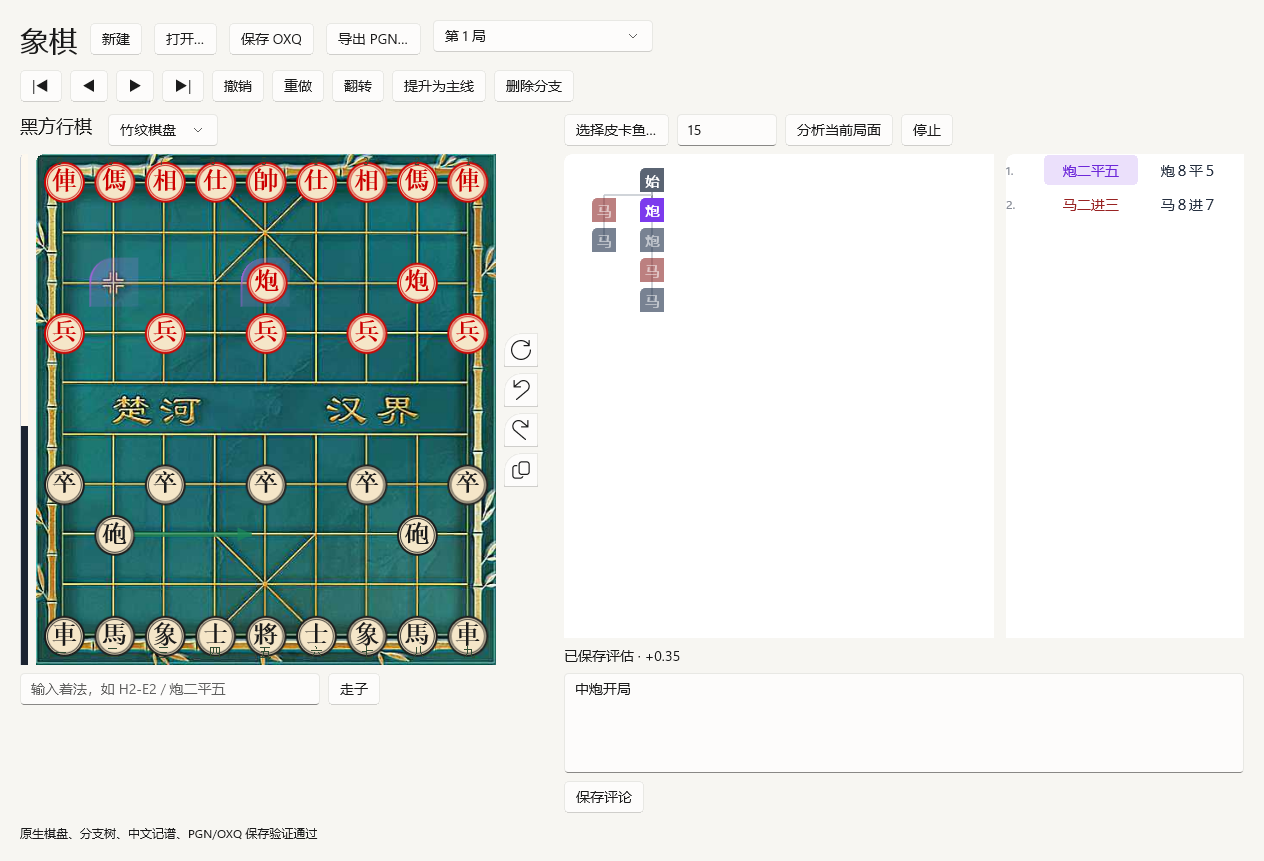
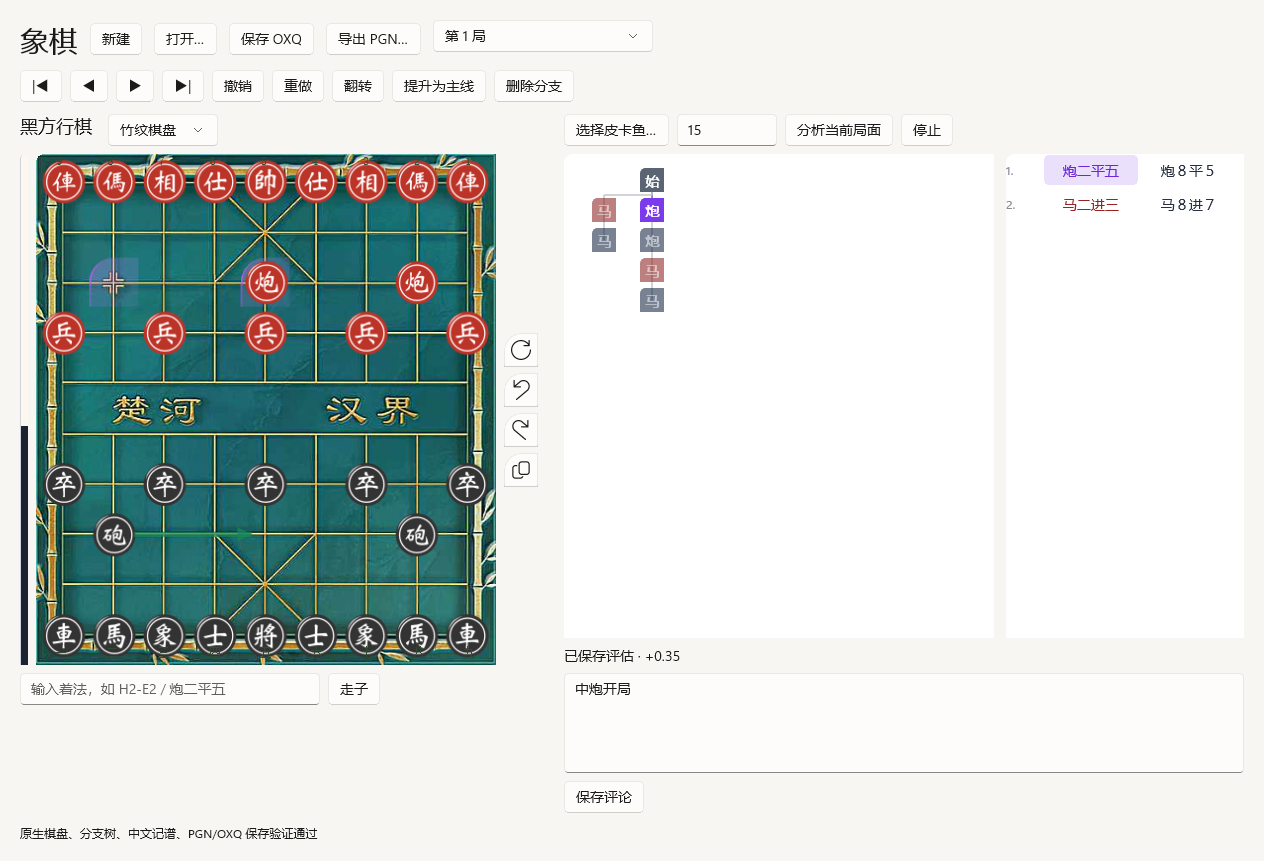
Use OXDF SVG pieces and replace wood board with a flat theme

diff --git a/app/main.cpp b/app/main.cpp
@@ -27,7 +27,6 @@
 #include <winrt/Microsoft.UI.Xaml.h>
 #include <winrt/Microsoft.UI.h>
 #include <winrt/Windows.ApplicationModel.DataTransfer.h>
-#include <winrt/Windows.Data.Xml.Dom.h>
 #include <winrt/Windows.Foundation.Collections.h>
 #include <winrt/Windows.Graphics.Imaging.h>
 #include <winrt/Windows.Graphics.h>
@@ -86,82 +85,50 @@ std::wstring piece_name(char c) {
         return L"";
     }
 }
-// The original traditional SVG assets are interpreted as native WinUI shapes.
-struct PieceCircle {
-    double diameter, thickness;
-    std::string fill, stroke;
-};
-struct PieceArt {
-    std::vector<PieceCircle> circles;
-    hstring text;
-    double size{};
-    std::string color;
-};
-std::unordered_map<char, PieceArt> pieceArt;
+// User-provided OXDF-editor SVGs contain path glyphs, not font-dependent text.
+using Microsoft::UI::Xaml::Media::Imaging::SvgImageSource;
+std::unordered_map<char, SvgImageSource> pieceArt;
+std::unordered_set<char> loadedPieceArt, failedPieceArt;
 std::filesystem::path asset_root() {
     wchar_t module[MAX_PATH]{};
     GetModuleFileNameW(nullptr, module, MAX_PATH);
     return std::filesystem::path(module).parent_path() / L"assets";
 }
-SolidColorBrush hex_brush(const std::string &color) {
-    if (color == "none")
-        return SolidColorBrush(Color{0, 0, 0, 0});
-    auto n = std::stoul(color.substr(1), nullptr, 16);
-    return brush((n >> 16) & 255, (n >> 8) & 255, n & 255);
-}
 void load_piece_art() {
     const std::map<char, std::wstring> files = {
-        {'K', L"wking"},   {'k', L"bking"},   {'A', L"wadvisor"}, {'a', L"badvisor"}, {'B', L"wbishop"},
-        {'b', L"bbishop"}, {'N', L"wknight"}, {'n', L"bknight"},  {'R', L"wrook"},    {'r', L"brook"},
-        {'C', L"wcannon"}, {'c', L"bcannon"}, {'P', L"wpawn"},    {'p', L"bpawn"}};
+        {'K', L"red_king"},     {'k', L"black_king"},     {'A', L"red_advisor"}, {'a', L"black_advisor"},
+        {'B', L"red_elephant"}, {'b', L"black_elephant"}, {'N', L"red_horse"},   {'n', L"black_horse"},
+        {'R', L"red_rook"},     {'r', L"black_rook"},     {'C', L"red_cannon"},  {'c', L"black_cannon"},
+        {'P', L"red_pawn"},     {'p', L"black_pawn"}};
     for (auto &[piece, name] : files) {
-        std::ifstream input(asset_root() / L"pieces" / L"traditional" / (name + L".svg"), std::ios::binary);
-        if (!input)
-            throw std::runtime_error("Missing original piece resource");
-        std::string source((std::istreambuf_iterator<char>(input)), {});
-        Windows::Data::Xml::Dom::XmlDocument xml;
-        xml.LoadXml(to_hstring(source));
-        PieceArt art;
-        for (auto node : xml.GetElementsByTagName(L"circle")) {
-            auto element = node.as<Windows::Data::Xml::Dom::XmlElement>();
-            art.circles.push_back({2 * std::stod(to_string(element.GetAttribute(L"r"))),
-                                   std::stod(to_string(element.GetAttribute(L"stroke-width"))),
-                                   to_string(element.GetAttribute(L"fill")),
-                                   to_string(element.GetAttribute(L"stroke"))});
-        }
-        auto text = xml.GetElementsByTagName(L"text").Item(0).as<Windows::Data::Xml::Dom::XmlElement>();
-        art.text = text.InnerText();
-        art.size = std::stod(to_string(text.GetAttribute(L"font-size")));
-        art.color = to_string(text.GetAttribute(L"fill"));
-        pieceArt.emplace(piece, std::move(art));
+        if (!std::filesystem::exists(asset_root() / L"pieces" / (name + L".svg")))
+            throw std::runtime_error("Missing OXDF-editor piece resource");
+        SvgImageSource source;
+        source.Opened([piece](auto &&, auto &&) { loadedPieceArt.insert(piece); });
+        source.OpenFailed([piece](auto &&, auto &&) { failedPieceArt.insert(piece); });
+        source.UriSource(Windows::Foundation::Uri(L"ms-appx:///assets/pieces/" + name + L".svg"));
+        pieceArt.emplace(piece, source);
     }
 }
-Grid piece_visual(char c) {
-    auto &art = pieceArt.at(c);
-    Grid image;
-    image.Width(45);
-    image.Height(45);
-    image.IsHitTestVisible(false);
-    for (auto &circle : art.circles) {
-        Microsoft::UI::Xaml::Shapes::Ellipse e;
-        e.Width(circle.diameter);
-        e.Height(circle.diameter);
-        e.Fill(hex_brush(circle.fill));
-        e.Stroke(hex_brush(circle.stroke));
-        e.StrokeThickness(circle.thickness);
-        image.Children().Append(e);
-    }
-    TextBlock text;
-    text.Text(art.text);
-    text.FontFamily(FontFamily(L"SimSun"));
-    text.FontSize(art.size);
-    text.FontWeight(Windows::UI::Text::FontWeights::Bold());
-    text.Foreground(hex_brush(art.color));
-    text.HorizontalAlignment(HorizontalAlignment::Center);
-    text.VerticalAlignment(VerticalAlignment::Center);
-    text.Margin(Thickness{0, -2, 0, 0});
-    image.Children().Append(text);
-    return image;
+Canvas piece_visual(char c) {
+    // Original 96x96 SVGs have a 58px disc centred at 48,48.
+    // Crop only the transparent margin so the unchanged artwork fills a board piece.
+    Canvas frame;
+    frame.Width(45);
+    frame.Height(45);
+    frame.IsHitTestVisible(false);
+    RectangleGeometry clip;
+    clip.Rect(Windows::Foundation::Rect{0, 0, 45, 45});
+    frame.Clip(clip);
+    Image image;
+    constexpr double size = 45.0 * 96.0 / 62.0;
+    image.Width(size);
+    image.Height(size);
+    image.Source(pieceArt.at(c));
+    Canvas::SetLeft(image, (45 - size) / 2);
+    Canvas::SetTop(image, (45 - size) / 2);
+    frame.Children().Append(image);
+    return frame;
 }
 
 std::filesystem::path picker(HWND owner, bool save, const wchar_t *pattern, const wchar_t *extension) {
@@ -244,7 +211,7 @@ struct Workspace : std::enable_shared_from_this<Workspace> {
         t.Text(text);
         t.IsHitTestVisible(false);
         t.FontSize(size);
-        t.Foreground(bamboo ? brush(48, 76, 50) : brush(246, 234, 212));
+        t.Foreground(bamboo ? brush(48, 76, 50) : brush(99, 110, 125));
         t.FontFamily(FontFamily(L"SimSun"));
         Canvas::SetLeft(t, x);
         Canvas::SetTop(t, y);
@@ -404,7 +371,7 @@ struct Workspace : std::enable_shared_from_this<Workspace> {
         boardHeader.Children().Append(turn);
         auto texture = boardTexture;
         texture.MinWidth(110);
-        texture.Items().Append(box_value(L"木纹棋盘"));
+        texture.Items().Append(box_value(L"纯色棋盘"));
         texture.Items().Append(box_value(L"竹纹棋盘"));
         texture.SelectedIndex(0);
         texture.SelectionChanged([this](auto &&sender, auto &&) {
@@ -415,11 +382,7 @@ struct Workspace : std::enable_shared_from_this<Workspace> {
         leftPanel.Children().Append(boardHeader);
         board.Width(450);
         board.Height(500);
-        ImageBrush wood;
-        wood.ImageSource(Microsoft::UI::Xaml::Media::Imaging::BitmapImage(
-            Windows::Foundation::Uri(L"ms-appx:///assets/wood.jpg")));
-        wood.Stretch(Stretch::UniformToFill);
-        board.Background(wood);
+        board.Background(brush(245, 246, 248));
         Viewbox view;
         view.Stretch(Stretch::Uniform);
         view.Child(board);
@@ -787,11 +750,14 @@ struct Workspace : std::enable_shared_from_this<Workspace> {
     void draw_board() {
         board.Children().Clear();
         auto pos = doc().position();
-        ImageBrush texture;
-        texture.ImageSource(Microsoft::UI::Xaml::Media::Imaging::BitmapImage(Windows::Foundation::Uri(
-            bamboo ? L"ms-appx:///assets/bamboo.jpg" : L"ms-appx:///assets/wood.jpg")));
-        texture.Stretch(Stretch::Fill);
-        board.Background(texture);
+        if (bamboo) {
+            ImageBrush texture;
+            texture.ImageSource(Microsoft::UI::Xaml::Media::Imaging::BitmapImage(
+                Windows::Foundation::Uri(L"ms-appx:///assets/bamboo.jpg")));
+            texture.Stretch(Stretch::Fill);
+            board.Background(texture);
+        } else
+            board.Background(brush(245, 246, 248));
         if (!bamboo) {
             Image grid;
             grid.Width(450);
@@ -860,7 +826,7 @@ struct Workspace : std::enable_shared_from_this<Workspace> {
                 b.Content(dot);
             }
             Automation::AutomationProperties::SetName(
-                b, (squares[s] ? pieceArt.at(squares[s]).text : hstring(L"空位")) + L" " +
+                b, (squares[s] ? hstring(piece_name(squares[s])) : hstring(L"空位")) + L" " +
                        to_hstring(xqn_square(s)));
             Canvas::SetLeft(b, p.first - 24);
             Canvas::SetTop(b, p.second - 24);
@@ -1153,6 +1119,8 @@ struct Workspace : std::enable_shared_from_this<Workspace> {
             co_await winrt::resume_after(std::chrono::milliseconds(400));
             // Return to the window thread before accessing any controls.
             co_await ui;
+            if (!failedPieceArt.empty() || loadedPieceArt.size() != 14)
+                throw std::runtime_error("OXDF SVG resources failed to decode");
             co_await capture_preview(directory / L"native-preview.png");
             boardTexture.SelectedIndex(1);
             if (!bamboo)
@@ -1174,7 +1142,7 @@ struct Workspace : std::enable_shared_from_this<Workspace> {
                                              {"gameNodes", doc().model().move_tree.nodes.size()},
                                              {"preview", "native-preview.png"},
                                              {"boardClick", true},
-                                             {"pieceResources", pieceArt.size()},
+                                             {"pieceResources", loadedPieceArt.size()},
                                              {"textures", 2}}
                                        .dump(2)));
         } catch (const hresult_error &e) {

diff --git a/docs/PROGRESS.md b/docs/PROGRESS.md
@@ -7,7 +7,7 @@ Date: 2026-10-23. The current checkpoint implements the user's C++-only requirem
 - Independent Git repository and WinUI 3/C++20 application.
 - Native C++ rules/FEN, Chinese/WXF/ICCS notation, PGN/comment metadata and Walker layout.
 - QuickJS, JS/TS sources, generated bundles, npm manifests and Node CI steps removed.
-- Original wood/bamboo textures, 14 traditional piece SVG definitions and board paths.
+- Flat native board by default, optional bamboo board, and 14 unchanged OXDF-editor SVG pieces. Wood and old traditional piece assets are removed.
 - Native vector pieces, board click-to-move/flip, legal dots, last-move highlights, annotations and best-move arrows.
 - WinUI native texture selector, side toolbar, FEN copy, evaluation strip, compact branch graph and two-column Chinese move list.
 - Multiple games; navigation, branch deletion/promotion, comments, undo/redo.
@@ -31,7 +31,11 @@ The native CTest targets cover:
 
 The previous JS prototype passed the original 41 TS tests. Those historical results do not claim that all 41 utility behaviors have already been reimplemented in native UI: player-clock presentation and annotation toggle controls remain below. Active verification now runs entirely in C++.
 
-Release and Debug builds each passed all four CTest targets and actual WinUI smoke tests. Native board source/destination clicks, both textures, flip and OXQ save/reopen passed. All 16 copied original image/SVG assets retain their source hashes. Real Pikafish returned depth 6, bestmove h2e2, ponder h9g7 and +0.52-pawn score (52 centipawns). Evidence and previews are under build/ during development. Run scripts/build.ps1 and scripts/smoke.ps1 to reproduce. Committed previews show the actual WinUI visual tree.
+Release and Debug builds each passed all four CTest targets and actual WinUI smoke tests. Native board source/destination clicks, both board styles, flip and OXQ save/reopen passed. Current OXDF-editor piece assets are verified byte-for-byte against the user-selected source directory. Real Pikafish returned depth 6, bestmove h2e2, ponder h9g7 and +0.52-pawn score (52 centipawns). Evidence and previews are under build/ during development. Run scripts/build.ps1 and scripts/smoke.ps1 to reproduce. Committed previews show the actual WinUI visual tree.
+
+## Latest visual update
+
+The user requested removal of wood artwork and selected OXDF-editor/assets/pieces. All 14 SVGs now load directly through WinUI; their source hashes match. The default board is flat, with bamboo retained as an option. Release and Debug UI builds and smoke tests passed with all 14 SVG decode events confirmed; the four native CTest targets also passed in Release. The review executable is build/winui/Release-oxdf/XiangqiNative.exe because the existing Release exe was running. Build/smoke scripts now accept an independent OutputDirectory.
 
 ## Next work
 
@@ -45,4 +49,4 @@ Release and Debug builds each passed all four CTest targets and actual WinUI smo
 
 ## Current limits
 
-Full-tree projections run synchronously and undo copies models; large-tree performance is unverified. PGN export is per active game. CBL diagnostics reject input pending a review UI. Theme selection is currently session-only. Only original traditional pieces are implemented. Competition repetition/chase adjudication is outside the inherited rule implementation.
+Full-tree projections run synchronously and undo copies models; large-tree performance is unverified. PGN export is per active game. CBL diagnostics reject input pending a review UI. Theme selection is currently session-only. The current piece set uses the user-selected OXDF-editor SVGs. Competition repetition/chase adjudication is outside the inherited rule implementation.

diff --git a/README.md b/README.md
@@ -8,9 +8,9 @@
 
 ## 运行
 
-本机可运行程序：`build/winui/Release/XiangqiNative.exe`。复制应用时保留整个 Release 目录，Windows App SDK 运行库和素材随目录部署。当前验证平台为 Windows 11 x64。
+本次界面更新构建：`build/winui/Release-oxdf/XiangqiNative.exe`。标准构建默认输出到 `build/winui/Release/`；旧程序占用 exe 时可使用独立输出目录。复制应用时保留 exe 所在的完整目录，Windows App SDK 运行库和素材随目录部署。当前验证平台为 Windows 11 x64。
 
-- 原木纹、竹纹棋盘和传统棋子资源；WinUI 原生按钮、菜单式选择器、文件对话框和文本框。
+- 默认纯色棋盘、可选竹纹棋盘，以及 OXDF-editor 的矢量棋子资源；WinUI 原生按钮、菜单式选择器、文件对话框和文本框。
 - 点击棋子与落点走子；支持棋盘翻转、合法落点、上一着高亮和 FEN 复制。
 - 紧凑分支树与双列中文着法，节点点击跳转、提升主线、删除分支、撤销/重做。
 - 中文、WXF、ICCS 输入；PGN 多局导入、评语与分析信息保留；单局 OXQ 保存及 PGN 导出。
@@ -34,7 +34,15 @@
 ./scripts/build.ps1 -Configuration Debug -CoreOnly
 ```
 
-构建会运行 C++ 文档、引擎和旧实现对照测试。自测会启动实际 WinUI 应用，验证按钮走子、OXQ 保存往返、木纹/竹纹切换及翻转渲染，输出位于 `build/winui/Release/smoke/`。
+构建会运行 C++ 文档、引擎和旧实现对照测试。自测会启动实际 WinUI 应用，验证按钮走子、OXQ 保存往返、纯色/竹纹切换及翻转渲染，输出位于 `build/winui/Release/smoke/`。
+
+
+独立目录构建和验证（适合旧版仍在运行时）：
+
+```powershell
+./scripts/build.ps1 -Configuration Release -OutputDirectory build/winui/Release-oxdf
+./scripts/smoke.ps1 -Configuration Release -OutputDirectory build/winui/Release-oxdf
+```
 
 旧实现对照包含 600 个对局局面、23,063 个合法走法、8 个残局/重子局面、25 组 PGN 输入及 232 节点复杂分支布局。它们是迁移前保存的 JSON 数据，执行测试不需要旧 JS 实现。
 

diff --git a/docs/DEPENDENCIES.md b/docs/DEPENDENCIES.md
@@ -4,7 +4,8 @@
 | --- | --- | --- |
 | Rules/FEN/Chinese notation C++ port | @weshell/xiangqi.js 1.0.3 from original package lock | BSD-2-Clause, licenses/xiangqi.js-LICENSE |
 | PGN/comment metadata/Walker C++ port | obsidian-xiangqi c6f2197 | GPL-3.0, repository LICENSE |
-| Textures, piece definitions, board geometry | obsidian-xiangqi c6f2197 | Original repository GPL-3.0 |
+| Bamboo board and grid geometry | obsidian-xiangqi c6f2197 | Original repository GPL-3.0 |
+| Piece SVGs | User-selected local OXDF-editor/assets/pieces | User-provided assets; see provenance below |
 | OXQF model and codecs | local OXQF 7d8a554, external/oxqf | MIT, external/oxqf/LICENSE |
 | JSON for Modern C++ | 3.12.0, vendored header | MIT, external/json/LICENSE.MIT |
 | WinUI | Microsoft.WindowsAppSDK.WinUI 1.8.260803003 | NuGet package license |
@@ -13,7 +14,9 @@
 
 Original application: https://github.com/west-shell/obsidian-xiangqi/tree/c6f2197
 
-Assets wood.jpg, bamboo.jpg and all 14 assets/pieces/traditional SVGs are copied unchanged. board-grid.svg derives from original src/chess.ts GRID_SVG: SVG text is moved to native TextBlock, CSS palette references become a fixed wood palette. The bamboo image already contains its grid and river text and is used without another grid overlay. No generated replacement artwork is used.
+The 14 assets/pieces/{red,black}_*.svg files are copied byte-for-byte from the user-selected C:\Users\yy_1070\project\OXDF-editor\assets\pieces directory (source repository HEAD 83d0bec at copy time). Their path-based glyphs and artwork are loaded directly by WinUI SvgImageSource. No font substitution or glyph redrawing is used; the native image container only crops transparent outer margins.
+
+The wood image and previous traditional SVG set are removed from source and app outputs. The default board is a flat native brush. board-grid.svg retains the original GRID_SVG paths with a neutral palette and native river labels. Optional bamboo.jpg is copied unchanged and already contains its own grid/river artwork.
 
 Pikafish archive: https://github.com/official-pikafish/Pikafish/releases/download/Pikafish-2026-09-06/Pikafish.2026-09-06.7z
 

diff --git a/docs/ARCHITECTURE.md b/docs/ARCHITECTURE.md
@@ -14,9 +14,9 @@ Document owns the authoritative OXQF GameModel. FEN, notation and coordinates ar
 
 ## Native visuals
 
-The original wood.jpg and bamboo.jpg are copied unchanged. Native BitmapImage/ImageBrush loads them through app resource URIs. The original SVG board paths are retained for wood with an explicit palette; river lettering uses a native TextBlock. Bamboo is an unchanged complete board image, so it uses its own grid/river artwork with calibrated native piece coordinates.
+The default board uses a flat native brush and neutral SVG grid. Wood artwork is removed. Optional bamboo.jpg remains an unchanged complete board image, with calibrated native piece coordinates and no duplicate grid overlay.
 
-WinUI's SVG image decoder does not render SVG text. Each original traditional piece SVG is therefore read using the Windows XML DOM: its circles, radii, stroke widths, colors, text, font size and bold weight define native Ellipse/TextBlock controls. Rendering remains vector based. Missing piece assets fail startup visibly instead of silently substituting different graphics.
+The 14 OXDF-editor SVG pieces are copied unchanged from the user's selected directory. Their glyphs are paths, so WinUI SvgImageSource renders them directly instead of reconstructing circles/text. A clipped native Canvas crops transparent outer margins from the 96x96 documents. Native load events verify all 14 resources decode successfully in the UI smoke test. Missing resource files fail startup explicitly.
 
 Native Button controls supply focus, input and accessibility names; the compact branch tree and two-column move list also use Buttons. Viewbox scales the board; evaluation-strip proportions reflect the original winning-chance mapping. There is no HTML/CSS layout.
 

diff --git a/AGENTS.md b/AGENTS.md
@@ -11,12 +11,13 @@ Independent Windows application. The user requires WinUI 3 native controls, C++ 
 - Document owns the authoritative OXQF GameModel; derived FEN/notation/layout are projections.
 - external/oxqf/: vendored source at 7d8a554, MIT.
 - external/json/: nlohmann/json 3.12.0, MIT.
-- assets/: original wood/bamboo textures and traditional SVGs. Piece SVG circle/text definitions are rendered as native WinUI controls.
+- assets/: plain native board by default, optional original bamboo board, and user-provided OXDF-editor SVG pieces. Load the original SVG paths through WinUI SvgImageSource; do not redraw glyphs using fonts. Wood resources are intentionally removed.
 - licenses/ and docs/DEPENDENCIES.md: retain source attribution.
 
 ## Validation
 
 Use PowerShell scripts/build.ps1 -Configuration Debug or Release; -CoreOnly skips WinUI.
+Build/smoke scripts accept -OutputDirectory for independent review builds when the existing exe is running. Preserve the running window; do not terminate it to release an output lock.
 All tests are native C++ and run through CTest. Do not introduce Node or JavaScript build steps.
 tests/fixtures/upstream-oracle.json records the original implementation before its removal. Do not rewrite expected output to conceal a regression.
 The legacy checkmate flag means no legal moves, including stalemate. The UI distinguishes the two using check.
